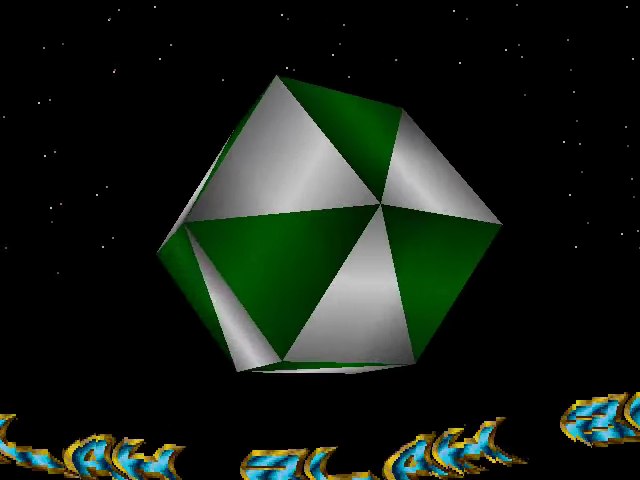
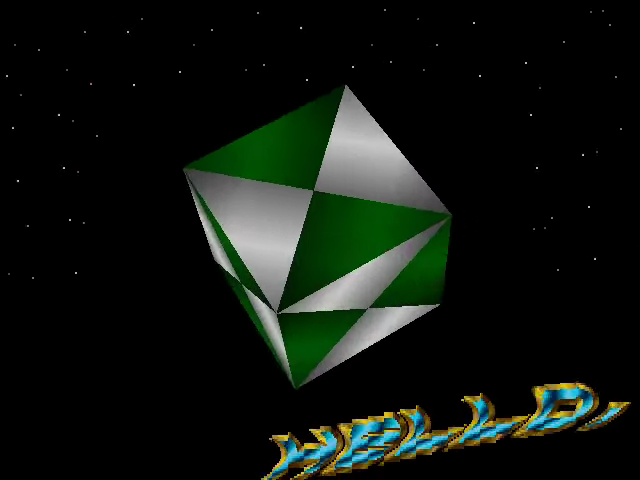
Show distinct scrolling and object modes in the project showcase

Changed region(s): [[0.25, 0.1562, 0.7812, 0.8125], [0.375, 0.7812, 1.0, 1.0], [0.0, 0.8438, 0.2812, 1.0]]

diff --git a/README.md b/README.md
@@ -7,9 +7,17 @@ les lectures audio.
 <!-- Project showcase -->
 ## Screenshots
 
-[![A rotating green-and-white polyhedron above the curved scroller and starfield](docs/media/screenshot-1.png)](docs/media/screenshot-1.png)
+[![Cube form surrounded by stars and scrolling text](docs/media/screenshot-1.png)](docs/media/screenshot-1.png)
 
-A rotating green-and-white polyhedron above the curved scroller and starfield.
+Cube form surrounded by stars and scrolling text.
+
+[![Expanded faceted form](docs/media/screenshot-2.png)](docs/media/screenshot-2.png)
+
+Expanded faceted form.
+
+[![Flattened diamond form](docs/media/screenshot-3.png)](docs/media/screenshot-3.png)
+
+Flattened diamond form.
 
 ## Video
 
